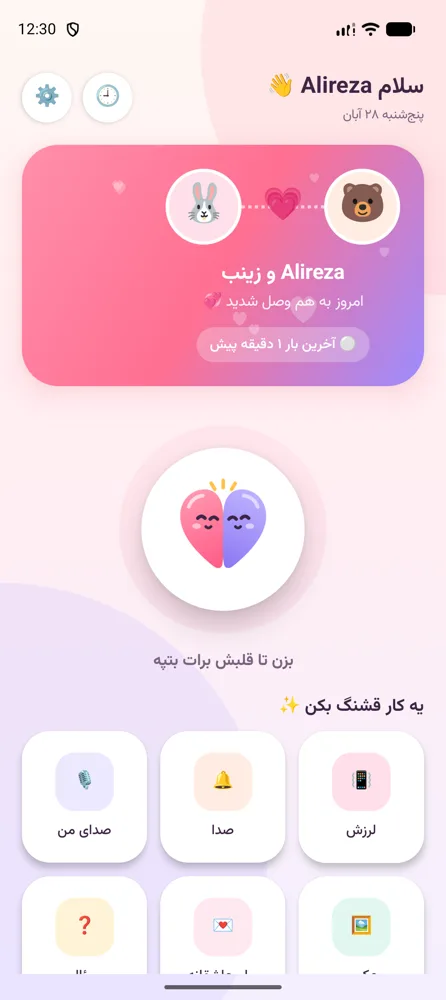
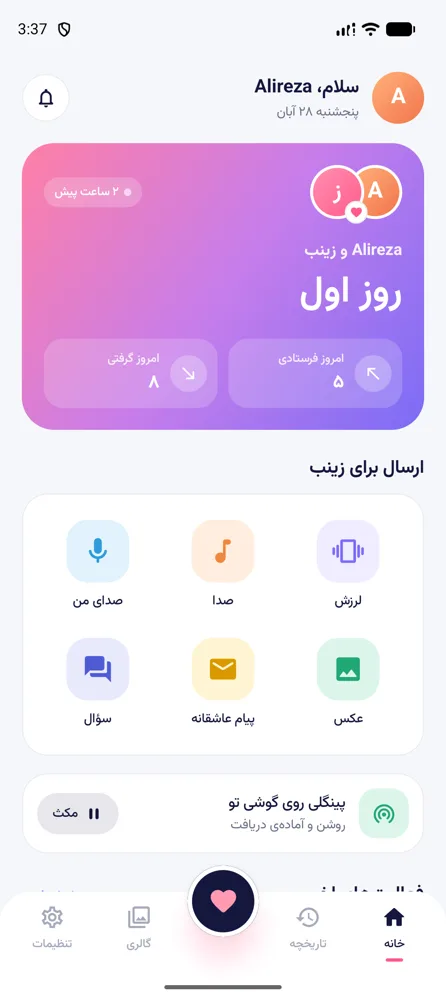
docs: refresh screenshots and features for the redesign

diff --git a/README.md b/README.md
@@ -10,9 +10,10 @@ closed and the screen is locked.
 
 | | | | |
 |---|---|---|---|
-| ![](docs/screenshots/onboarding.webp) | ![](docs/screenshots/dashboard.webp) | ![](docs/screenshots/fullscreen-love-note.webp) | ![](docs/screenshots/question-on-lock-screen.webp) |
-| ![](docs/screenshots/fullscreen-photo.webp) | ![](docs/screenshots/love-note-composer.webp) | ![](docs/screenshots/voice-notes.webp) | ![](docs/screenshots/history.webp) |
-| ![](docs/screenshots/background-reliability.webp) | ![](docs/screenshots/connection-safety-code.webp) | | |
+| ![](docs/screenshots/onboarding.webp) | ![](docs/screenshots/login-otp.webp) | ![](docs/screenshots/dashboard.webp) | ![](docs/screenshots/history.webp) |
+| ![](docs/screenshots/vibration.webp) | ![](docs/screenshots/love-note-composer.webp) | ![](docs/screenshots/question-composer.webp) | ![](docs/screenshots/voice-notes.webp) |
+| ![](docs/screenshots/fullscreen-love-note.webp) | ![](docs/screenshots/question-answered.webp) | ![](docs/screenshots/settings.webp) | ![](docs/screenshots/connection.webp) |
+| ![](docs/screenshots/background-reliability.webp) | ![](docs/screenshots/pause-dialog.webp) | | |
 
 ## Features
 
@@ -21,7 +22,11 @@ closed and the screen is locked.
 - **Remote actions**: ping 💗, six vibration patterns, eight original sounds, personal voice
   notes, full-screen photos, full-screen love notes (5 styles), multiple-choice or free-answer
   questions — with delivered / seen / answered receipts
-- **Couple dashboard**: avatars, days-together counter, live presence, recent activity
+- **Couple dashboard** with a bottom tab bar (Home, History, Gallery, Settings) and a raised
+  heart button that pings your partner from anywhere; days-together counter, live presence,
+  today's sent/received stats, recent activity
+- **Icon-led design system**: line icons for every action, navy primary buttons, pastel accent
+  tiles, filled inputs, filter chips, monogram avatars — consistent across every screen
 - **Shared gallery and voice library**, **history** with Jalali dates
 - **Privacy controls**: the receiver chooses which actions the partner may trigger (enforced
   by the server), end-to-end encryption with a verifiable safety code, unpair (erases shared
